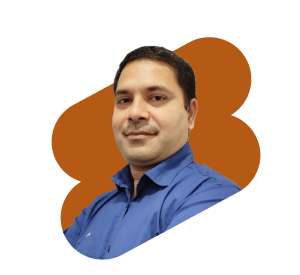
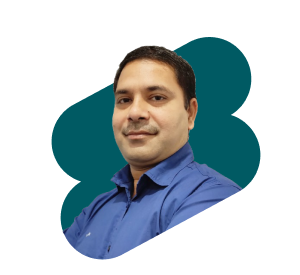
update home profile

Changed region(s): [[0.57, 0.1164, 0.87, 0.6982], [0.15, 0.2909, 0.45, 0.8436]]

diff --git a/index.html b/index.html
@@ -3,7 +3,7 @@
     <meta charset="UTF-8">
     <meta name="viewport" content="width=device-width, initial-scale=1.0">
     <meta http-equiv="X-UA-Compatible" content="ie=edge">
-    <title>HTML 5 Boilerplate</title>
+    <title>Sanjeet Singh - Proeuct Designer</title>
     <style>
         body{
             display: flex;
@@ -36,6 +36,9 @@
             margin: 0 auto;
             text-align: center;
             margin-top: 24px;
+            display: flex;
+            flex-direction: column;
+            gap: .5rem;
         }
         a{
             display: inline-flex;
@@ -46,18 +49,18 @@
             font-size: 16px;
         }
         a:hover{
-            color:crimson;
+            color:#005A63;
         }
         a.btn{
-            border: 2px solid crimson;
-            color: crimson;
-            padding:  16px 32px;
+            border: 2px solid #005A63;
+            color: #005A63;
+            padding:  1rem 2rem;
             text-decoration: none;
         }
         a.btn:hover{
-            border: 2px solid crimson;
+            border: 2px solid #005A63;
             color: #ffffff;
-            background: crimson;
+            background: #005A63;
             padding:  16px 32px;
             text-decoration: none;
         }
@@ -74,7 +77,7 @@
         <img src="sanjeet-profile-photo.png" width="160px" height="auto" alt="Sanjeet SIngh" />
     </div>
     <h1>Sanjeet Singh</h1>
-    <h2>Product Designer</h2>
+    <h2>Product (UX/UI) Designer</h2>
     <div class="contact">
         <p><a href="mailto:skusiss@gmail.com">skusiss@gmail.com</a></p>
         <p><a href="tel:+919560246999">+91 95602 46999</a></p>
@@ -84,7 +87,9 @@
         <a href="https://www.behance.net/skusiss" target="_blank">Behance.net/skusiss</a>
     </div>
     <div class="contact">
-        <a href="sanjeet-V5-product-designer-cv.pdf" class="btn">Download CV</a>
+        <a href="sanjeet-v6-product-designer-cv.pdf"  target="_blank" class="btn">Download CV</a>
+        <a href="Sanjeet-live-projects.pdf" target="_blank" class="btn">Live Projects</a>
+        <a href="sanjeet-product-ux-designer.pdf" target="_blank" class="btn">Cover Letter</a>
     </div>
   </body>
 </html>
